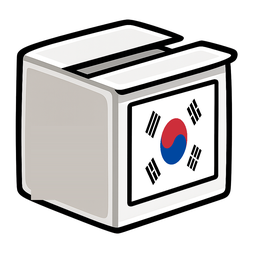
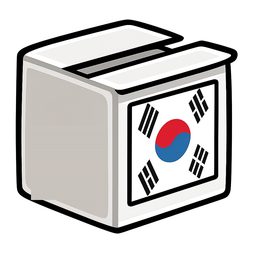
Keep AI taegeuk with exact trigrams; drop tiles by outstanding demand (AI/SI no longer run short)
Claude-Session: https://claude.ai/code/session_019QwctBLnb4UTXMJBnbargq

Changed region(s): [[0.5312, 0.3438, 0.8125, 0.7812]]

diff --git a/index.html b/index.html
@@ -1903,7 +1903,7 @@ const faceHTML = (e, who = 'suit') => FACE_ART[who][e] || FACE_ART.suit[e] || e;
 // 같은 그림이 여러 개 있어도 박자가 겹치지 않게 시작점을 흩뜨림
 // 그림을 다시 그려도 폰에 남은 옛 그림이 보이지 않게 주소에 버전을 붙임
 // 파일마다 내용이 바뀔 때만 새로 받도록 파일 해시를 붙임 (빌드할 때 채움)
-const ART_HASH = {"tile-gundam-a.png": "41a00219", "ind-school-a.png": "1b0fc977", "robot-cobot-cook-b.png": "3f739fa6", "tile-tool-a.png": "48c7dc89", "tile-made-a.png": "d557ba97", "ind-training-b.png": "0efc1d0b", "robot-qarm-a.png": "901f7afc", "tile-legs-b.png": "c0299b41", "tile-union-b.png": "b3a03a42", "face-cook-frown.png": "e01a4907", "face-cook-neutral.png": "71441525", "ind-battery-b.png": "6e2bd18d", "ind-fire-a.png": "a71484d3", "face-trump-neutral.png": "5aecac90", "tile-legs-a.png": "2faadad6", "face-worker-angry.png": "eb6b88ed", "ind-steel-a.png": "0f070238", "face-suitf-delight.png": "d729900f", "ind-steel-b.png": "e122612f", "ind-defense-b.png": "5aa959f1", "face-cook-angry.png": "50c65318", "ind-port-b.png": "6f5dc395", "tile-tf-a.png": "d2bc0939", "ind-factory-a.png": "909659fd", "tile-term-b.png": "fa8e5b3f", "face-neutral.png": "a9a959b5", "tile-wheel-a.png": "9e98ebac", "face-cook-smile.png": "be9219e0", "tile-korea-b.png": "44e6a3df", "face-trump-tear.png": "21d22245", "tile-auto-b.png": "bb58686e", "ind-material-b.png": "a8f27197", "tile-korea-a.png": "2475839a", "tile-union-a.png": "d48507d4", "ind-auto-a.png": "9a8abf4f", "face-frown.png": "26865767", "robot-centaur-a.png": "a9e1e03b", "tile-auto-a.png": "e7100d25", "robot-cobot-cook-a.png": "2acb022c", "face-worker-tear.png": "940dcfc3", "ind-autoparts-b.png": "a5dbd76a", "face-suitf-angry.png": "5b24ceb5", "face-suitf-tear.png": "d0923069", "robot-centaur-b.png": "848f1932", "robot-mm-a.png": "e5da97cf", "ind-defense-a.png": "23a0651c", "robot-quad-a.png": "1e1384cf", "ind-autoparts-a.png": "26dcf7ce", "tile-eva-b.png": "b64d5546", "face-cook-tear.png": "d529800c", "tile-gundam-b.png": "69722c17", "face-trump-delight.png": "e41c1f7d", "face-angry.png": "8542c3c5", "tile-floor-b.png": "7bfb4d09", "face-suitf-smile.png": "2bfa949d", "ind-material-a.png": "2c67685e", "tile-term-a.png": "f86a988f", "tile-eva-a.png": "48055f29", "tile-hum-a.png": "cdc85433", "ind-port-a.png": "0e5340b9", "ind-police-a.png": "717025fa", "wheel-tilt-ref.png": "4a1e31a2", "robot-cobot-a.png": "bb066d5e", "face-trump-angry.png": "6fc0cf6d", "tile-wheel-b.png": "df5d2104", "face-worker-neutral.png": "f4f1ff96", "robot-amr-a.png": "21455470", "face-delight.png": "4b63238d", "face-trump-frown.png": "4102f723", "robot-mm-b.png": "41cc89c7", "ind-fire-b.png": "c530534e", "ind-police-b.png": "750b1169", "ind-ess-b.png": "c7fac005", "ind-training-a.png": "a9fe00e5", "tile-tf-b.png": "23f3efda", "ind-aircraft-a.png": "53a6b218", "ind-school-b.png": "a14af652", "tile-arm-b.png": "6cb9dab3", "face-worker-delight.png": "56fdb189", "face-worker-smile.png": "7eaefd7c", "robot-quad-b.png": "9b27fe7b", "ind-chicken-a.png": "bd4bc4e3", "face-cook-delight.png": "5ceb20b0", "ind-battery-a.png": "2ead7359", "robot-agv-b.png": "397f8942", "face-tear.png": "7cacead6", "face-suitf-neutral.png": "b29259fe", "ind-auto-b.png": "f90715bb", "ind-shipyard-a.png": "7c43481e", "tile-tool-b.png": "c90763b3", "ind-factory-b.png": "b9dfaab4", "ind-chicken-b.png": "b4930a6b", "ind-shipyard-b.png": "098fdbae", "robot-qarm-b.png": "abd9a737", "tile-arm-a.png": "cd420a51", "tile-made-b.png": "7077aabd", "tile-floor-a.png": "14074a30", "robot-cobot-weld-a.png": "da53987b", "robot-agv-a.png": "ee67b65c", "ind-logistics-b.png": "9c5aeeca", "face-smile.png": "786eeb95", "face-worker-frown.png": "0f8d8086", "robot-cobot-weld-b.png": "a9e69108", "robot-amr-b.png": "e23a5198", "tile-hum-b.png": "01ca7c8b", "ind-ess-a.png": "83fff111", "face-suitf-frown.png": "1236f440", "ind-aircraft-b.png": "6afa5f2a", "face-trump-smile.png": "03674df8", "robot-cobot-b.png": "7ea58bc1", "ind-logistics-a.png": "b1b04f38"};
+const ART_HASH = {"tile-gundam-a.png": "41a00219", "ind-school-a.png": "1b0fc977", "robot-cobot-cook-b.png": "3f739fa6", "tile-tool-a.png": "48c7dc89", "tile-made-a.png": "d557ba97", "ind-training-b.png": "0efc1d0b", "robot-qarm-a.png": "901f7afc", "tile-legs-b.png": "c0299b41", "tile-union-b.png": "b3a03a42", "face-cook-frown.png": "e01a4907", "face-cook-neutral.png": "71441525", "ind-battery-b.png": "6e2bd18d", "ind-fire-a.png": "a71484d3", "face-trump-neutral.png": "5aecac90", "tile-legs-a.png": "2faadad6", "face-worker-angry.png": "eb6b88ed", "ind-steel-a.png": "0f070238", "face-suitf-delight.png": "d729900f", "ind-steel-b.png": "e122612f", "ind-defense-b.png": "5aa959f1", "face-cook-angry.png": "50c65318", "ind-port-b.png": "6f5dc395", "tile-tf-a.png": "d2bc0939", "ind-factory-a.png": "909659fd", "tile-term-b.png": "fa8e5b3f", "face-neutral.png": "a9a959b5", "tile-wheel-a.png": "9e98ebac", "face-cook-smile.png": "be9219e0", "tile-korea-b.png": "212b7e64", "face-trump-tear.png": "21d22245", "tile-auto-b.png": "bb58686e", "ind-material-b.png": "a8f27197", "tile-korea-a.png": "94a05d4c", "tile-union-a.png": "d48507d4", "ind-auto-a.png": "9a8abf4f", "face-frown.png": "26865767", "robot-centaur-a.png": "a9e1e03b", "tile-auto-a.png": "e7100d25", "robot-cobot-cook-a.png": "2acb022c", "face-worker-tear.png": "940dcfc3", "ind-autoparts-b.png": "a5dbd76a", "face-suitf-angry.png": "5b24ceb5", "face-suitf-tear.png": "d0923069", "robot-centaur-b.png": "848f1932", "robot-mm-a.png": "e5da97cf", "ind-defense-a.png": "23a0651c", "robot-quad-a.png": "1e1384cf", "ind-autoparts-a.png": "26dcf7ce", "tile-eva-b.png": "b64d5546", "face-cook-tear.png": "d529800c", "tile-gundam-b.png": "69722c17", "face-trump-delight.png": "e41c1f7d", "face-angry.png": "8542c3c5", "tile-floor-b.png": "7bfb4d09", "face-suitf-smile.png": "2bfa949d", "ind-material-a.png": "2c67685e", "tile-term-a.png": "f86a988f", "tile-eva-a.png": "48055f29", "tile-hum-a.png": "cdc85433", "ind-port-a.png": "0e5340b9", "ind-police-a.png": "717025fa", "wheel-tilt-ref.png": "4a1e31a2", "robot-cobot-a.png": "bb066d5e", "face-trump-angry.png": "6fc0cf6d", "tile-wheel-b.png": "df5d2104", "face-worker-neutral.png": "f4f1ff96", "robot-amr-a.png": "21455470", "face-delight.png": "4b63238d", "face-trump-frown.png": "4102f723", "robot-mm-b.png": "41cc89c7", "ind-fire-b.png": "c530534e", "ind-police-b.png": "750b1169", "ind-ess-b.png": "c7fac005", "ind-training-a.png": "a9fe00e5", "tile-tf-b.png": "23f3efda", "ind-aircraft-a.png": "53a6b218", "ind-school-b.png": "a14af652", "tile-arm-b.png": "6cb9dab3", "face-worker-delight.png": "56fdb189", "face-worker-smile.png": "7eaefd7c", "robot-quad-b.png": "9b27fe7b", "ind-chicken-a.png": "bd4bc4e3", "face-cook-delight.png": "5ceb20b0", "ind-battery-a.png": "2ead7359", "robot-agv-b.png": "397f8942", "face-tear.png": "7cacead6", "face-suitf-neutral.png": "b29259fe", "ind-auto-b.png": "f90715bb", "ind-shipyard-a.png": "7c43481e", "tile-tool-b.png": "c90763b3", "ind-factory-b.png": "b9dfaab4", "ind-chicken-b.png": "b4930a6b", "ind-shipyard-b.png": "098fdbae", "robot-qarm-b.png": "abd9a737", "tile-arm-a.png": "cd420a51", "tile-made-b.png": "7077aabd", "tile-floor-a.png": "14074a30", "robot-cobot-weld-a.png": "da53987b", "robot-agv-a.png": "ee67b65c", "ind-logistics-b.png": "9c5aeeca", "face-smile.png": "786eeb95", "face-worker-frown.png": "0f8d8086", "robot-cobot-weld-b.png": "a9e69108", "robot-amr-b.png": "e23a5198", "tile-hum-b.png": "01ca7c8b", "ind-ess-a.png": "83fff111", "face-suitf-frown.png": "1236f440", "ind-aircraft-b.png": "6afa5f2a", "face-trump-smile.png": "03674df8", "robot-cobot-b.png": "7ea58bc1", "ind-logistics-a.png": "b1b04f38"};
 // 게임에서는 가벼운 webp(assets/w/)를 씀. 파일 이름은 png와 같고 확장자만 다름
 const av = f => { const n = f.replace('assets/', ''); return `assets/w/${n.replace(/\.png$/, '.webp')}?v=${ART_HASH[n] || '0'}`; };
 // 업종 아이콘(ind-)은 a프레임만, 로봇·부품은 a·b를 번갈아 (팔이 까딱, 다리가 제자리걸음 등)
@@ -2146,12 +2146,20 @@ async function shuffleBoard() {
   await tween(420, p => { for (const m of moves) { const sx = m.x0 + (cxm - m.x0) * 0.7, sy = m.y0 + (cym - m.y0) * 0.7; m.t.x = sx + (m.x1 - sx) * p; m.t.y = sy + (m.y1 - sy) * p; m.t.scale = 1 - 0.35 * J + 0.35 * J * p; m.t.rot = m.spin * (1 - p) * 180 * J; } }, EASE.outBack);
   for (const m of moves) { m.t.x = m.x1; m.t.y = m.y1; m.t.scale = 1; m.t.rot = 0; }
 }
-// 손님이 필요로 하는 부품이 조금 더 자주 떨어짐 (휴머노이드는 여기서 안 나옴)
+// 떨어지는 타일: 기다리는 손님들이 아직 못 받은 부품일수록 더 자주 (필요한 수만큼 모일 수 있게)
+// 피지컬AI·엔드포인트 SI처럼 여러 로봇에 두루 들어가는 부품이 모자라지 않도록, 보드에 적게 남아 있으면 더 밀어 줌
+// 조건 타일(노사합의·해외수출·국내생산)은 아무도 안 찾을 때 다른 타일보다 조금 덜 나옴. 휴머노이드는 여기서 안 나옴
 function biasedType() {
-  const need = waiting().flatMap(c => c.needs.filter(n => !n.res).map(n => n.p)).filter(p => S.def.tiles.includes(p));
-  if (need.length && Math.random() < 0.12) return need[Math.floor(Math.random() * need.length)];
-  // 조건 타일(노사합의·해외수출·국내생산)은 다른 타일보다 조금 덜 나옴
-  const w = S.def.tiles.map(t => COND_TILES.has(t) ? 0.6 : 1);
+  const need = {};
+  for (const c of waiting()) for (const n of c.needs) if (!n.res) need[n.p] = (need[n.p] || 0) + 1;
+  const onBoard = {};
+  for (const t of S.board.cells) if (t) onBoard[t.type] = (onBoard[t.type] || 0) + 1;
+  const w = S.def.tiles.map(t => {
+    const k = need[t] || 0;
+    let x = COND_TILES.has(t) && !k ? 0.6 : 1;
+    if (k) x *= 1 + 0.55 * Math.min(k, 4) * ((onBoard[t] || 0) < 5 ? 1.5 : 1);
+    return x;
+  });
   let r = Math.random() * w.reduce((a, b) => a + b, 0);
   for (let k = 0; k < w.length; k++) if ((r -= w[k]) < 0) return S.def.tiles[k];
   return S.def.tiles[0];
@@ -2255,7 +2263,7 @@ function banner(text, delay) {
 }
 
 // ───────── 진행 ─────────
-const BUILD_V = '1003-164804';
+const BUILD_V = '1003-165035';
 function loop(t) {
   const dt = Math.min(0.1, (t - (S.last || t)) / 1000);
   S.last = t;
